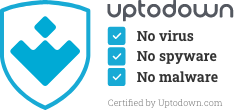
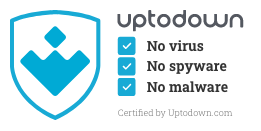
a

diff --git a/readme.md b/readme.md
@@ -46,9 +46,29 @@ If you wish to report a bug or send feedback, you can do so by sending me an e-m
 Please provide as much information as possible and provide screenshot(s) if applicable. I usually do not reply.
 
 ## Awards
-[![alt text](https://raw.githubusercontent.com/ProperCode/Work-by-Speech/master/other/awards/softpedia_100_clean.png)](https://www.softpedia.com/get/Desktop-Enhancements/Other-Desktop-Enhancements/Work-by-Speech.shtml#status)
-[![alt text](https://raw.githubusercontent.com/ProperCode/Work-by-Speech/master/other/awards/updatestar.com.jpg)](https://www.updatestar.com/virus-report/work-by-speech/2619667)
-[![alt text](https://raw.githubusercontent.com/ProperCode/Work-by-Speech/master/other/awards/filetransit_5of5.gif)](http://www.filetransit.com/view.php?id=453437)
+<a href="https://www.softpedia.com/get/Office-tools/Other-Office-Tools/Work-by-Speech.shtml#status" target="_blank">
+	<img src="https://raw.githubusercontent.com/ProperCode/Work-by-Speech/master/other/awards/softpedia_100_clean.png" alt="Softpedia Clean Award" border="0"/>
+</a>
+
+<a href="https://www.updatestar.com/virus-report/work-by-speech/2619667" target="_blank">
+	<img src="https://raw.githubusercontent.com/ProperCode/Work-by-Speech/master/other/awards/updatestar.com.jpg" alt="Updatestar Clean Award" border="0"/>
+</a>
+
+<a href='https://work-by-speech.en.uptodown.com/windows' title='Download Work by Speech' target="_blank">
+	<img src="https://raw.githubusercontent.com/ProperCode/Work-by-Speech/master/other/awards/certified-free.jpg" alt="Uptodown Clean Award" border="0"/>
+</a>
+
+<a href="http://www.filetransit.com/view.php?id=453437" target="_blank">
+	<img src="https://raw.githubusercontent.com/ProperCode/Work-by-Speech/master/other/awards/filetransit_5of5.gif" alt="File Transit Award" border="0"/>
+</a>
+
+<a href="https://www.softlay.com/downloads/work-by-speech" target="_blank">
+	<img src="https://raw.githubusercontent.com/ProperCode/Work-by-Speech/master/other/awards/softlay-300x110.png" alt="Softlay Clean Award" border="0"/>
+</a>
+
+<a href="https://en.downloadastro.com/apps/work-by-speech/" target="_blank">
+	<img src="https://raw.githubusercontent.com/ProperCode/Work-by-Speech/master/other/awards/Best-App-Award-2-min.jpg" alt="Download Astro Best App Award" border="0"/>
+</a>
 
 ## Other Open Source Projects
 [Clickless Mouse](https://github.com/ProperCode/clickless-mouse)<br/>
